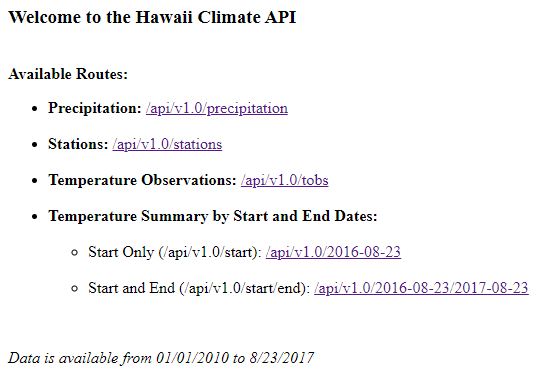
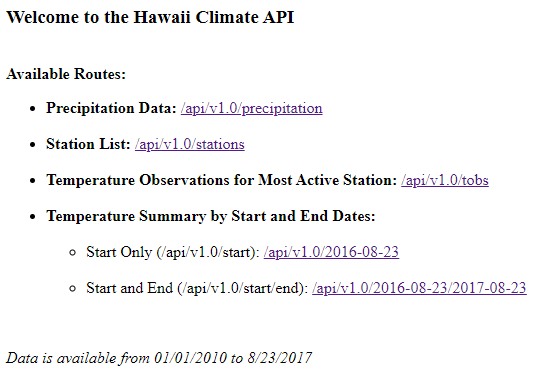
finishing touches on flask app

diff --git a/app.py b/app.py
@@ -31,21 +31,22 @@ app = Flask(__name__)
 
 # home route
 @app.route("/")
+@app.route("/api/v1.0/")
 def welcome():
     # List Routes
     return (
         f"<h3>Welcome to the Hawaii Climate API</h3><br/><strong>Available Routes:</strong><br/>"
         f'<ul>'
-        f'<li><strong>Precipitation:</strong> <a href="/api/v1.0/precipitation">/api/v1.0/precipitation</a></li><br/>'
-        f'<li><strong>Stations:</strong> <a href="/api/v1.0/stations">/api/v1.0/stations</a></li><br/>'
-        f'<li><strong>Temperature Observations:</strong> <a href="/api/v1.0/tobs">/api/v1.0/tobs</a></li><br/>'
+        f'<li><strong>Precipitation Data:</strong> <a href="/api/v1.0/precipitation">/api/v1.0/precipitation</a></li><br/>'
+        f'<li><strong>Station List:</strong> <a href="/api/v1.0/stations">/api/v1.0/stations</a></li><br/>'
+        f'<li><strong>Temperature Observations for Most Active Station:</strong> <a href="/api/v1.0/tobs">/api/v1.0/tobs</a></li><br/>'
         f'<li><strong>Temperature Summary by Start and End Dates:</strong></li><br/>'
         f'<ul>'
         f'<li>Start Only (/api/v1.0/start): <a href="/api/v1.0/2016-08-23">/api/v1.0/2016-08-23</a></li><br/>'
         f'<li>Start and End (/api/v1.0/start/end): <a href="/api/v1.0/2016-08-23/2017-08-23">/api/v1.0/2016-08-23/2017-08-23</a></li><br/>'
         f'</ul>'
         f'</ul>'
-        f'<br/><i>Data is available from 01/01/2010 to 8/23/2017</i><br/>'
+        f'<br/><i>Data is available from 01/01/2010 to 08/23/2017</i><br/>'
     )
 
 # precipitation route
@@ -73,13 +74,13 @@ def precipitation():
     last12mnth_prcp = session.query(Measurement.date, Measurement.prcp).filter(Measurement.date>=filterdate).all()
     session.close()
 
-    """Convert the query results to a dictionary using date as the key and prcp as the value."""
+    # Convert the query results to a dictionary using date as the key and prcp as the value.
     prcp_dates = {}
 
     for date, prcp in last12mnth_prcp:
         prcp_dates[date] = prcp
 
-    """Return the JSON representation of your dictionary."""
+    # Return the JSON representation of your dictionary.
     return jsonify(prcp_dates)
 
 # station route
@@ -97,7 +98,7 @@ def stations():
 
     return jsonify(stations)
 
-# temp route
+# most active station route
 @app.route("/api/v1.0/tobs")
 def tobs(): 
     # Create our session (link) from Python to the DB
@@ -122,18 +123,23 @@ def tobs():
 
     active_stations_df = pd.DataFrame(active_stations, columns=['station','observations']).sort_values(by='observations', ascending=False)
 
+    #get the most active station
     mostactive = active_stations_df.head(1).iloc[0]['station']
+
     # Query the dates and temperature observations of the most active station
     last12mnth_temp = session.query(Measurement.date, Measurement.tobs).filter(Measurement.date>=filterdate).filter(Measurement.station==mostactive).all()
     session.close()
 
+    stationdict={'station':mostactive}
     # Return a JSON list of temperature observations (TOBS) for the previous year.
-    return jsonify(last12mnth_temp)
+    return jsonify(stationdict,last12mnth_temp)
 
 # dynamic date range routes
 @app.route("/api/v1.0/<start_date>", defaults={'end_date':None})
 @app.route("/api/v1.0/<start_date>/<end_date>")
 def datefilter(start_date, end_date):
+    datedict = {'from':start_date,
+                'to':end_date}
     # Create our session (link) from Python to the DB
     session = Session(engine)    
     # When given the start only, calculate TMIN, TAVG, and TMAX for all dates greater than and equal to the start date.
@@ -145,10 +151,12 @@ def datefilter(start_date, end_date):
         results = session.query(func.min(Measurement.tobs), func.avg(Measurement.tobs), func.max(Measurement.tobs)).\
                         filter(Measurement.date >= start_date).filter(Measurement.date <= end_date).all()
         
-    # calc_temps = pd.DataFrame(results, columns=['TMIN','TAVG','TMAX'])
+    calc_temps = pd.DataFrame(results, columns=['TMIN','TAVG','TMAX']).to_dict()
+
+    session.close()
 
     # Return a JSON list of the minimum temperature, the average temperature, and the max temperature for a given start or start-end range.
-    return jsonify(results)
+    return jsonify([datedict, calc_temps])
 
 # run app
 if __name__ == '__main__':
